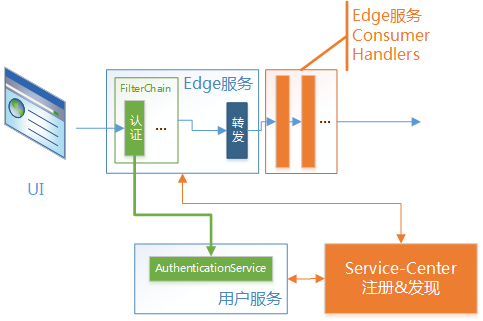
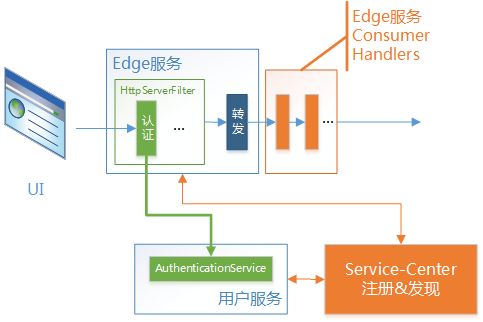
fix pr comments

diff --git a/_posts/cn/2018-07-10-easy-build-microservice-system-part-IV.md b/_posts/cn/2018-07-10-easy-build-microservice-system-part-IV.md
@@ -26,13 +26,11 @@ redirect_from:
 
 除此之外其他业务请求都需要做Token认证；
 
-3. Edge服务转发访问请求之前，对需要认证的请求先做统一认证，认证通过之后才转发，为了能够未来更好的扩展这种“转发前处理”的能力，我们设计一个处理链机制`FilterChain`：
+3. Edge服务转发访问请求之前，对需要认证的请求先做统一认证，认证通过之后才转发，我们使用`HttpServerFilter`扩展这个能力：
 
 ![FilterChain](/assets/images/scaffold/FilterChain.png)
 
->提示：另外一种方案就是扩展Handler，如果检查失败则使Handler链调用直接返回；但是由于认证过程同样是一个Consumer调用，也会触发Handler 处理，这会使Handler的逻辑和配置复杂化，因此此场景下不推荐。
-
-完整统一认证时序图为：
+统一认证流程时序图为：
 
 ![EdgeAuth](/assets/images/scaffold/EdgeAuth.png)
 
@@ -69,20 +67,9 @@ public class AuthenticationServiceImpl implements AuthenticationService {
 }
 ```
 
-#### 第二步：实现转发前处理链FilterChain
-##### 定义处理链接口EdgeFilter
+#### 第二步：实现统一认证AuthenticationFilter
 ```java
-public interface EdgeFilter {
-  //Filter的处理顺序，越小越先被处理
-  int getOrder();
-
-  //如果需要中止Filter链执行，抛InvocationException即可
-  void processing(String serviceName, String operationPath, RoutingContext context) throws InvocationException;
-}
-```
-##### 实现统一认证AuthenticationFilter
-```java
-public class AuthenticationFilter implements EdgeFilter {
+public class AuthenticationFilter implements HttpServerFilter {
 
   private final RestTemplate template = RestTemplateBuilder.create();
 
@@ -91,7 +78,7 @@ public class AuthenticationFilter implements EdgeFilter {
   public static final String EDGE_AUTHENTICATION_NAME = "edge-authentication-name";
 
   private static final Set<String> NOT_REQUIRED_VERIFICATION_USER_SERVICE_METHODS = new HashSet<>(
-      Arrays.asList("/login", "/logon", "/validate"));
+      Arrays.asList("login", "logon", "validate"));
 
   @Override
   public int getOrder() {
@@ -99,22 +86,25 @@ public class AuthenticationFilter implements EdgeFilter {
   }
 
   @Override
-  public void processing(String serviceName, String operationPath, RoutingContext context) throws InvocationException {
-    if (isInvocationNeedValidate(serviceName, operationPath)) {
-      String token = context.request().headers().get(AUTHORIZATION);
+  public Response afterReceiveRequest(Invocation invocation, HttpServletRequestEx httpServletRequestEx) {
+    if (isInvocationNeedValidate(invocation.getMicroserviceName(), invocation.getOperationName())) {
+      String token = httpServletRequestEx.getHeader(AUTHORIZATION);
       if (StringUtils.isNotEmpty(token)) {
         String userName = template
             .getForObject("cse://" + USER_SERVICE_NAME + "/validate?token={token}", String.class, token);
         if (StringUtils.isNotEmpty(userName)) {
           //Add header
-          context.request().headers().add(EDGE_AUTHENTICATION_NAME, userName);
+          invocation.getContext().put(EDGE_AUTHENTICATION_NAME, userName);
         } else {
-          throw new InvocationException(Status.UNAUTHORIZED, "authentication failed, invalid token");
+          return Response
+              .failResp(new InvocationException(Status.UNAUTHORIZED, "authentication failed, invalid token"));
         }
       } else {
-        throw new InvocationException(Status.UNAUTHORIZED, "authentication failed, missing AUTHORIZATION header");
+        return Response.failResp(
+            new InvocationException(Status.UNAUTHORIZED, "authentication failed, missing AUTHORIZATION header"));
       }
     }
+    return null;
   }
 
   private boolean isInvocationNeedValidate(String serviceName, String operationPath) {
@@ -130,87 +120,12 @@ public class AuthenticationFilter implements EdgeFilter {
 }
 ```
 
-#### 第三步：在Edge中添加FilterChain调用机制
-##### 在EdgeDispatcher中链式递归的方式顺序调用所有的EdgeFilter
-```java
-  private void onRequest(RoutingContext context) {
-    Map<String, String> pathParams = context.pathParams();
-    //从匹配的param0拿到{ServiceComb微服务Name}
-    final String service = pathParams.get("param0");
-    //从匹配的param1拿到{服务路径&参数}
-    String operationPath = "/" + pathParams.get("param1");
-
-    //还记得我们之前说的做出一点点改进吗？引入一个自定义配置edge.routing-short-path.{简称}，映射微服务名；如果简称没有配置，那么就认为直接是微服务的名
-    final String serviceName = DynamicPropertyFactory.getInstance()
-        .getStringProperty("edge.routing-short-path." + service, service).get();
-
-      //创建一个Edge转发
-    EdgeInvocation edgeInvocation = new EdgeInvocation();
-    //允许接受任意版本的微服务实例作为Provider，未来我们会使用此（设置版本）能力实现灰度发布
-    edgeInvocation.setVersionRule(DefinitionConst.VERSION_RULE_ALL);
-    edgeInvocation.init(serviceName, context, path, httpServerFilters);
-
-    //处理Filter链，如果全部通过则转发请求
-    loopExecuteEdgeFilterInChain(0, serviceName, operationPath, context, edgeInvocation);
-  }
-
-  private void loopExecuteEdgeFilterInChain(int index, String serviceName, String operationPath, RoutingContext context,
-      EdgeInvocation edgeInvocation) {
-    if (index < filterChain.size()) {
-      EdgeFilter filter = filterChain.get(index);
-      AtomicReference<InvocationException> exception = new AtomicReference<>();
-      CompletableFuture<Void> future = CompletableFuture.runAsync(() -> {
-        try {
-          filter.processing(serviceName, operationPath, context);
-        } catch (InvocationException e) {
-          exception.set(e);
-        }
-      });
-
-      future.whenComplete((result, throwable) -> {
-        if (exception.get() != null) {
-          sendFailed(context, exception.get());
-        } else if (throwable != null) {
-          sendFailed(context, new InvocationException(Status.INTERNAL_SERVER_ERROR, throwable.getMessage()));
-        } else {
-          loopExecuteEdgeFilterInChain(index + 1, serviceName, operationPath, context, edgeInvocation);
-        }
-      });
-    } else {
-      try {
-        edgeInvocation.edgeInvoke();
-      } catch (InvocationException e) {
-        sendFailed(context, e);
-      }
-    }
-  }
-
-  private void sendFailed(RoutingContext context, InvocationException exception) {
-    context.response().setStatusCode(exception.getStatusCode());
-    context.response().headers().add(CONTENT_LENGTH, String.valueOf(exception.getMessage().length()));
-    context.response().write(exception.getMessage());
-    context.response().end();
-  }
-```
-
->提示：Edge默认工作于全异步模式下，不允许有任何阻塞操作，`AuthenticationFilter`是一个RPC调用，所以`loopExecuteEdgeFilterInChain`中调用EdgeFilter使用的是异步回调模式。
-
-##### 使用SPI方式加载所有的EdgeFilter
-在`resources\META-INF\services`目录中创建`org.apache.servicecomb.scaffold.edge.EdgeFilter`文件：
+别忘了通过SPI机制加载它，在`resources\META-INF\services`目录中创建`org.apache.servicecomb.common.rest.filter.HttpServerFilter`文件：
 ```text
 org.apache.servicecomb.scaffold.edge.filter.AuthenticationFilter
 ```
 
-之后在EdgeDispatcher增加SPI加载所有的EdgeFilter的逻辑：
-```java
-private final List<EdgeFilter> filterChain;
-
-public EdgeDispatcher() {
-    filterChain = SPIServiceUtils.getSortedService(EdgeFilter.class);
-  }
-```
-
-#### 第四步：在用户微服务中增加修改密码的功能用于验证
+#### 第三步：在用户微服务中增加修改密码的功能用于验证
 现有的`login`和`logon`都无需认证，因此我们在用户微服务中增加需要认证的修改密码的功能用于验证统一认证。
 ##### 在UserService中添加修改密码
 ```java
@@ -245,6 +160,12 @@ public ResponseEntity<Boolean> changePassword(@RequestBody UserUpdateDTO userUpd
 ```
 
 ### 验证实现的统一认证
+#### 确认AuthenticationFilter在Edge服务中成功加载
+在Edge服务的启动日志中能够找到：
+```text
+2018-07-13 14:38:48,756 [INFO]   1. org.apache.servicecomb.scaffold.edge.filter.AuthenticationFilter. org.apache.servicecomb.foundation.common.utils.SPIServiceUtils.loadSortedService(SPIServiceUtils.java:79)
+```
+
 #### 用户登录
 使用zhengyangyong登录：
 
@@ -271,3 +192,7 @@ public ResponseEntity<Boolean> changePassword(@RequestBody UserUpdateDTO userUpd
 修改密码成功。
 
 **这里可能有疑问，使用zhengyangyong登录后，是可以通过这个Token修改其他用户例如lidagang的密码的，这是因为我们目前构建的validate仅检查Token的有效性，而不做权限检查，基于RBAC的角色权限管理系统将会在未来构建。**
+
+### 参考资料
+1. AuthenticationFilter的完整[代码](https://github.com/zhengyangyong/scaffold/blob/master/edge-service/src/main/java/org/apache/servicecomb/scaffold/edge/filter/AuthenticationFilter.java)；
+2. HttpServerFilter的[介绍](https://github.com/apache/incubator-servicecomb-docs/blob/master/java-chassis-reference/zh_CN/general-development/http-filter.md)。
